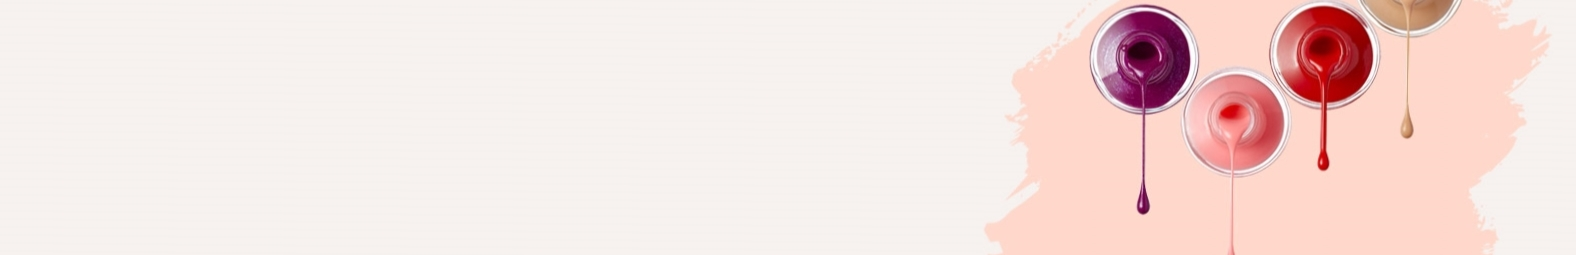
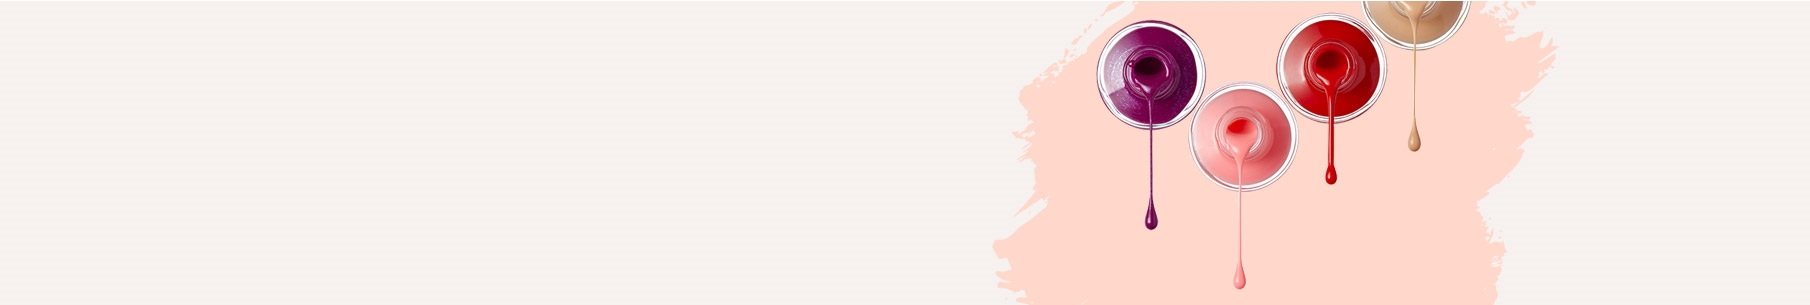
serv

Changed region(s): [[0.5286, 0.0, 0.9949, 1.0], [0.7151, 0.7412, 0.7462, 0.851], [0.684, 0.8784, 0.7151, 0.9333]]

diff --git a/src/components/css/heading.module.css b/src/components/css/heading.module.css
@@ -1,10 +1,66 @@
 .main {
   width: 100%;
-  height: 200px;
+  height: 220px;
   background-size: cover;
   background-position: center;
+  background-color: #f7f2ef;
+}
+
+.bg {
+  max-width: 1200px;
+  margin: auto;
+  display: flex;
+  align-items: center;
+  height: 100%;
+}
+.main h1 {
+  padding-left: 15px;
+  font-family: "Montserrat", sans-serif;
+  letter-spacing: 0;
+  font-size: 60px;
+  line-height: 1.2;
+  font-weight: 700;
+}
+
+.breadcrumbs {
+  padding: 25px 0;
+  background-color: #f7f2ef;
+}
+.breadcrumbs2 {
+  max-width: 1200px;
+  margin: auto;
+  font-family: "Montserrat", sans-serif;
+  padding-left: 15px;
+}
+
+.breadcrumbs2 p,
+a {
+  font-family: "Montserrat", sans-serif;
+  font-size: 14px;
 }
 
 @media only screen and (max-width: 1000px) {
-    
+  .main {
+    height: 150px;
+  }
+  .main h1 {
+    font-size: 35px;
+    padding-left: 6%;
+  }
+  .breadcrumbs2 {
+    padding-left: 6%;
+  }
+}
+@media only screen and (max-width: 600px) {
+  .main {
+    height: 130px;
+  }
+  .main h1 {
+    padding-left: 8%;
+    font-size: 30px;
+    font-weight: 600;
+  }
+  .breadcrumbs2 {
+    padding-left: 6%;
+  }
 }

diff --git a/src/components/heading.js b/src/components/heading.js
@@ -1,15 +1,29 @@
+import { Breadcrumbs, Link } from "@mui/material";
 import styles from "./css/heading.module.css";
 
 export default function Heading() {
   return (
-    <div
-      style={{
-        backgroundImage: "url(images/title-bg.jpg)",
-      }}
-      className={styles.main}
-    >
-        
-    </div>
+    <>
+      <div
+        style={{
+          backgroundImage: "url(images/title-bg.jpg)",
+        }}
+        className={styles.main}
+      >
+        <div className={styles.bg}>
+          <h1>Services</h1>
+        </div>
+      </div>
+      <div className={styles.breadcrumbs}>
+        <div className={styles.breadcrumbs2} >   
+          <Breadcrumbs aria-label="breadcrumb">
+            <Link underline="hover" color="inherit" href="/">
+              Home
+            </Link>
+            <p  >Services</p>
+          </Breadcrumbs>
+        </div>
+      </div>
+    </>
   );
 }
-          
